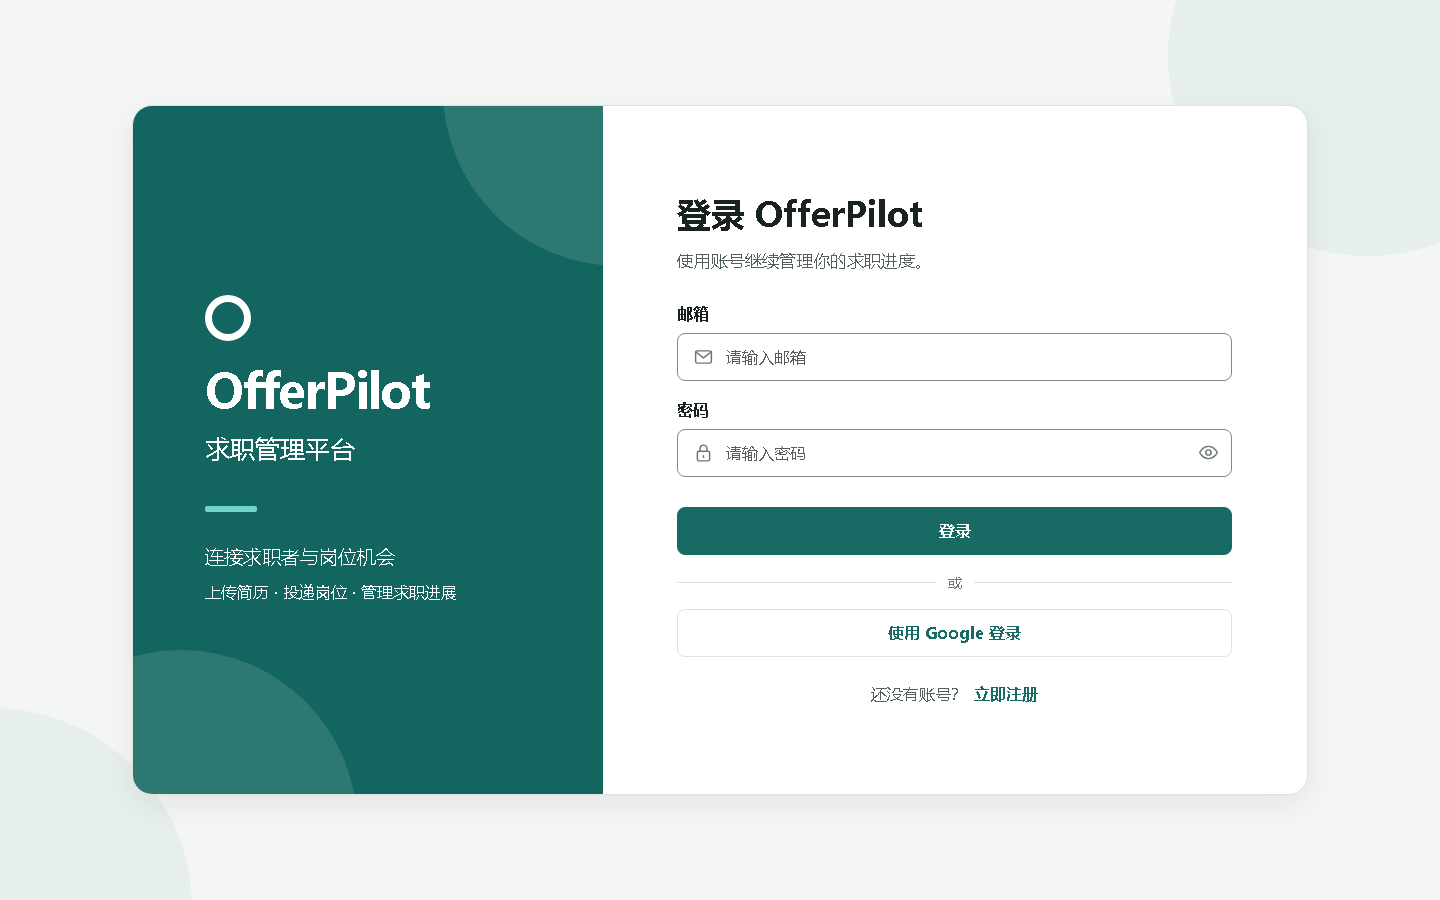
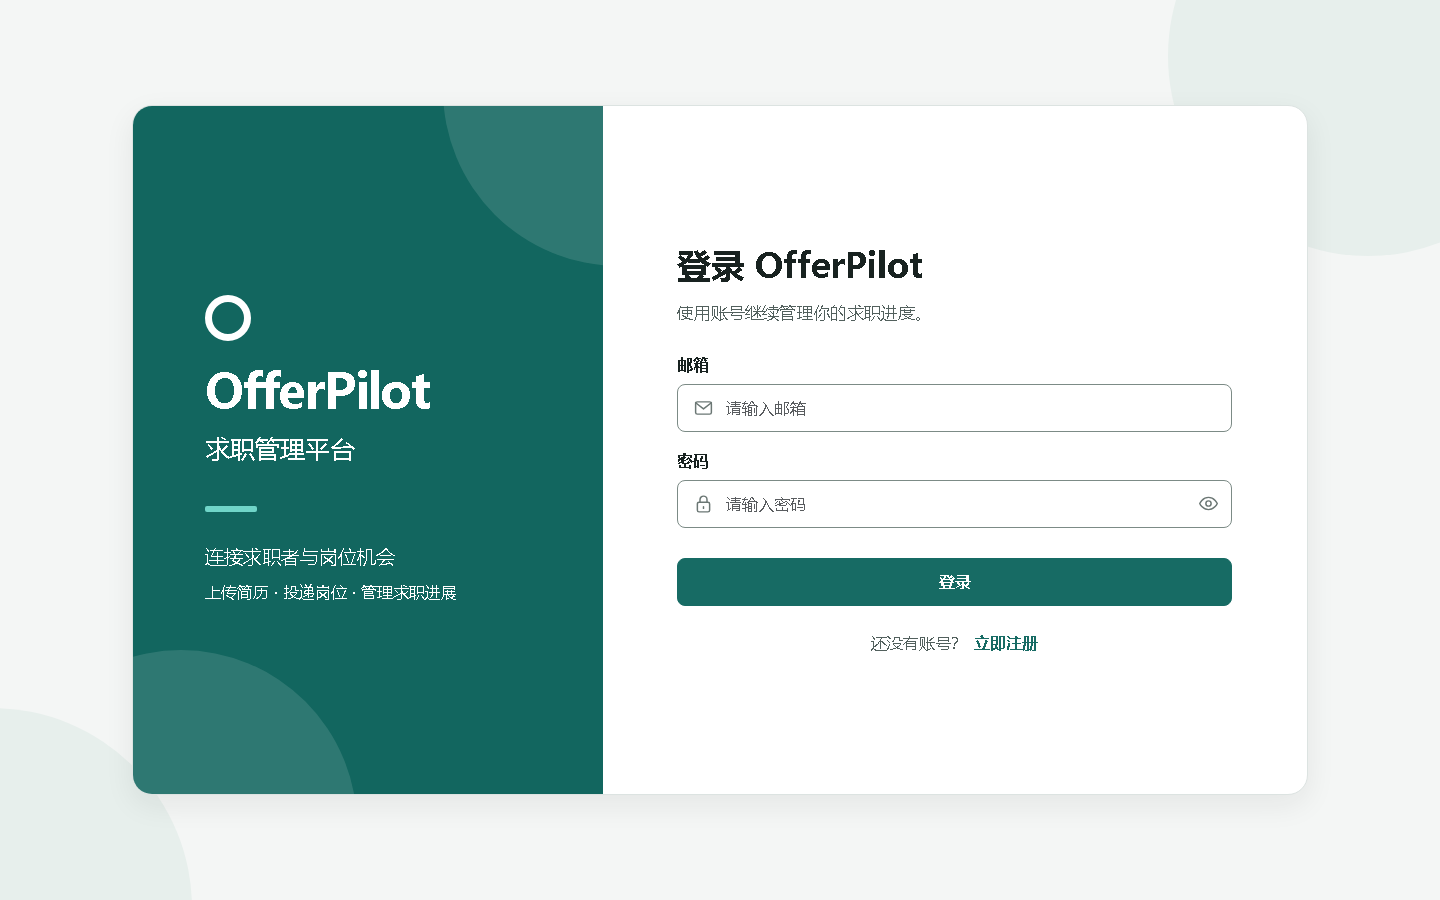
feat(auth): hide Google login unless explicitly enabled
Gate the Google button behind VITE_GOOGLE_OAUTH_ENABLED, wire the build arg through Docker/Compose, document credential setup, and refresh the login screenshots.

Changed region(s): [[0.4688, 0.3422, 0.875, 0.7778], [0.4688, 0.2178, 0.6562, 0.3111], [0.625, 0.7467, 0.6562, 0.7778]]

diff --git a/job-portal-frontend/src/components/Login.jsx b/job-portal-frontend/src/components/Login.jsx
@@ -32,6 +32,7 @@ const Login = () => {
     const location = useLocation();
     const registrationMessage = location.state?.registrationMessage || "";
     const sessionMessage = location.state?.sessionMessage || "";
+    const googleOAuthEnabled = import.meta.env.VITE_GOOGLE_OAUTH_ENABLED === "true";
     const oauthError = new URLSearchParams(location.search).get("oauth_error") === "true";
     const dispatch = useDispatch();
     const navigate = useNavigate();
@@ -120,7 +121,7 @@ const Login = () => {
                                         {sessionMessage}
                                     </div>
                                 ) : null}
-                                {oauthError && !errorMessage ? (
+                                {oauthError && googleOAuthEnabled && !errorMessage ? (
                                     <div className="alert alert-warning" role="status">
                                         Google 登录未完成，请重试或使用邮箱和密码登录。
                                     </div>
@@ -167,14 +168,18 @@ const Login = () => {
                                         </button>
                                     </div>
                                 </form>
-                                <div className="auth-divider"><span>或</span></div>
-                                <div className="d-grid">
-                                    <button
-                                        onClick={() => window.location.href = `${BACKEND_API_URL}/oauth2/authorization/google`}
-                                        className="btn btn-outline-secondary auth-google-button">
-                                        使用 Google 登录
-                                    </button>
-                                </div>
+                                {googleOAuthEnabled ? (
+                                    <>
+                                        <div className="auth-divider"><span>或</span></div>
+                                        <div className="d-grid">
+                                            <button
+                                                onClick={() => window.location.href = `${BACKEND_API_URL}/oauth2/authorization/google`}
+                                                className="btn btn-outline-secondary auth-google-button">
+                                                使用 Google 登录
+                                            </button>
+                                        </div>
+                                    </>
+                                ) : null}
                         </div>
                         <div className="login-footer">
                             <span>还没有账号？</span><Link to="/register">立即注册</Link>

diff --git a/job-portal-frontend/src/components/Login.test.jsx b/job-portal-frontend/src/components/Login.test.jsx
@@ -21,6 +21,10 @@ describe('Login', () => {
         localStorage.clear();
     });
 
+    afterEach(() => {
+        vi.unstubAllEnvs();
+    });
+
     it('should login applicant, save token, set user details and navigate', async () => {
         axios.post.mockResolvedValueOnce({data: {token: 'jwt-123'}});
         axios.get.mockResolvedValueOnce({
@@ -161,6 +165,7 @@ describe('Login', () => {
     });
 
     it('should show a warning when Google login returns an error', () => {
+        vi.stubEnv('VITE_GOOGLE_OAUTH_ENABLED', 'true');
         renderWithProviders(<Login/>, {route: '/?oauth_error=true'});
 
         expect(screen.getByRole('status')).toHaveTextContent('Google 登录未完成，请重试或使用邮箱和密码登录。');
@@ -187,7 +192,15 @@ describe('Login', () => {
         await waitFor(() => expect(mockNavigate).toHaveBeenCalledWith('/applicant-dashboard'));
     });
 
+    it('hides the Google button when OAuth is not configured', () => {
+        renderWithProviders(<Login/>);
+
+        expect(screen.queryByRole('button', {name: '使用 Google 登录'})).not.toBeInTheDocument();
+        expect(screen.getByRole('button', {name: '登录'})).toBeInTheDocument();
+    });
+
     it('should redirect to Google OAuth endpoint when Google button is clicked', async () => {
+        vi.stubEnv('VITE_GOOGLE_OAUTH_ENABLED', 'true');
         renderWithProviders(<Login/>);
         const user = userEvent.setup();
 

diff --git a/README.zh-CN.md b/README.zh-CN.md
@@ -39,7 +39,7 @@ OfferPilot 是面向求职者与招聘管理员的全栈求职管理平台。当
 
 求职者可以注册并登录账号，浏览招聘中的岗位，提交、撤回或再次提交申请，并在个人看板查看投递状态和更新时间。求职者还可在“我的简历”工作台上传 PDF/DOCX 简历、查看异步解析状态与提取文本、下载原文件，并将解析成功的简历与开放岗位进行规则技能覆盖率比较。管理员可以发布、编辑、关闭、重新开放或删除岗位，按状态审核投递记录，并启用或停用求职者账号。
 
-当前认证方式包括邮箱密码登录、JWT 会话校验与可选的 Google OAuth2 登录。公开岗位列表、管理员岗位列表和岗位详情使用 Redis 缓存；缓存故障时业务读写按 fail-open 策略继续访问数据库。项目还提供 OpenAPI/Swagger 接口文档、Actuator/Prometheus 指标，以及基于 OpenTelemetry 和 Jaeger 的本地链路追踪。
+当前认证方式包括邮箱密码登录、JWT 会话校验与可选的 Google OAuth2 登录（默认隐藏，需配置凭据并显式开启）。公开岗位列表、管理员岗位列表和岗位详情使用 Redis 缓存；缓存故障时业务读写按 fail-open 策略继续访问数据库。项目还提供 OpenAPI/Swagger 接口文档、Actuator/Prometheus 指标，以及基于 OpenTelemetry 和 Jaeger 的本地链路追踪。
 
 ## 技术栈
 
@@ -82,7 +82,14 @@ docker compose down
 | 求职者 | `user@local.test` | `user123` |
 | 管理员 | `admin@local.test` | `admin123` |
 
-也可以直接在登录页注册新的求职者账号。Google 登录需要额外配置 OAuth2 凭据，邮箱密码登录不受影响。
+也可以直接在登录页注册新的求职者账号。Google 登录默认隐藏：代码链路已实现（OIDC → 应用自签 JWT），但需要真实凭据并显式开启后才会显示按钮，避免未配置时点到 Google 错误页。
+
+### 启用 Google 登录（可选）
+
+1. 在 Google Cloud Console 创建 OAuth Client（Web application），Authorized redirect URI 填 `http://localhost:8080/login/oauth2/code/google`。
+2. 后端配置 `GOOGLE_CLIENT_ID`、`GOOGLE_CLIENT_SECRET`。
+3. 前端构建时设置 `VITE_GOOGLE_OAUTH_ENABLED=true`；本地开发可在 `job-portal-frontend/.env.local` 写入，Docker Compose 可写入 `.env` 后重建前端镜像。
+4. 用一个全新邮箱验证；已存在的本地账号/管理员账号不会被自动绑定（这是有意的安全策略）。
 
 ## 本地测试
 
@@ -199,7 +206,7 @@ powershell -NoProfile -ExecutionPolicy Bypass -File .\scripts\benchmark\Measure-
 - **不是 AI**：岗位匹配是 23 个技术关键词的规则覆盖率，不评价候选人、不输出录用概率。
 - **单实例文件存储**：当前使用本地磁盘，多副本不共享文件；`ResumeStorage` 接口可替换为 MinIO/S3。
 - **无分页/限流**：岗位、投递、用户列表均为全量返回；登录与上传未做限流或验证码。
-- **Google 登录需配置**：需要真实 `GOOGLE_CLIENT_ID` / `GOOGLE_CLIENT_SECRET`；未配置时邮箱密码登录不受影响。
+- **Google 登录默认隐藏**：代码链路已实现，但需要真实 `GOOGLE_CLIENT_ID` / `GOOGLE_CLIENT_SECRET` 与前端 `VITE_GOOGLE_OAUTH_ENABLED=true`；未配置时不会显示按钮，邮箱密码登录不受影响。
 - **本地可运行版本**：仓库提供 Docker Compose 一键启动，未提供线上 Demo 或生产 SLA。
 
 ## 相关文档

diff --git a/docs/ui-redesign/README.md b/docs/ui-redesign/README.md
@@ -9,7 +9,7 @@
 | 页面 | 实际变化 | 保留的业务 |
 | --- | --- | --- |
 | 注册 | 按参考图做约 40:60 双栏；居中品牌文案、O 环标志、几何圆装饰；统一图标输入、独立密码显隐；手机上下排列 | 原注册 API、必填与邮箱校验、确认密码、后端错误、成功返回登录 |
-| 登录 | 复用相同认证布局、输入框、按钮和品牌表达 | 邮箱密码认证、角色跳转、会话提示、Google 登录入口 |
+| 登录 | 复用相同认证布局、输入框、按钮和品牌表达 | 邮箱密码认证、角色跳转、会话提示；Google 登录入口仅在配置凭据并显式开启时显示 |
 | 岗位机会 | 浅青欢迎横幅、下划线图标页签、白底纵向岗位行；真实公司与完整描述、时间和状态分区；底部六状态图例 | 原 API 数据、投递/撤回/再次投递权限与结果同步；没有增加搜索、筛选、详情或分页 |
 | 我的简历 | 浅青上传区、统一文件记录和解析状态、可读文本区与技能标签 | PDF/DOCX 与 5 MiB 限制、自动轮询、文本按需加载、规则覆盖率、下载和异常重试 |
 | 岗位管理 | 统一紧凑记录、真实统计、筛选表单、状态与操作；手机单列 | 原编辑、关闭、开放、删除与前端筛选排序 |
